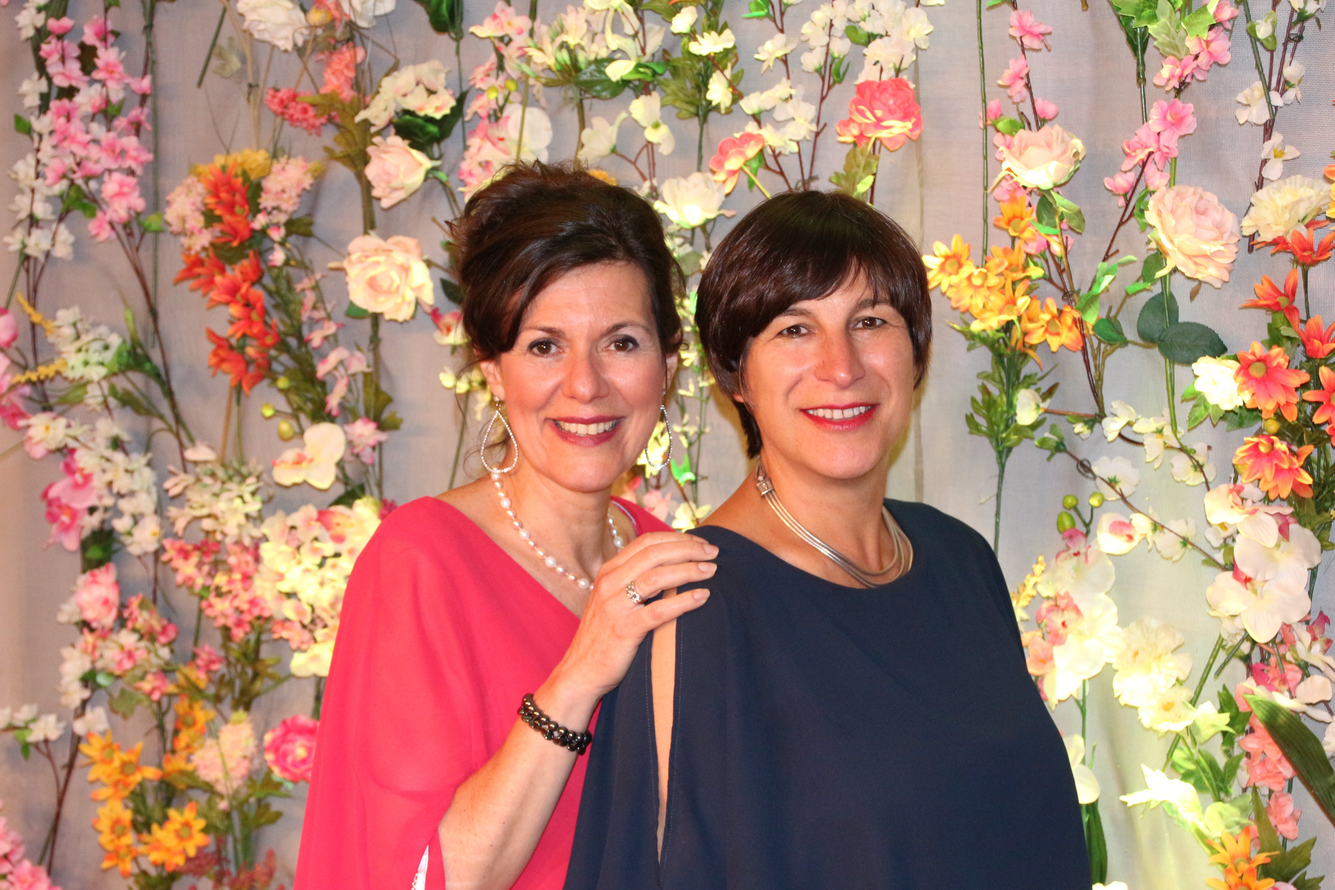
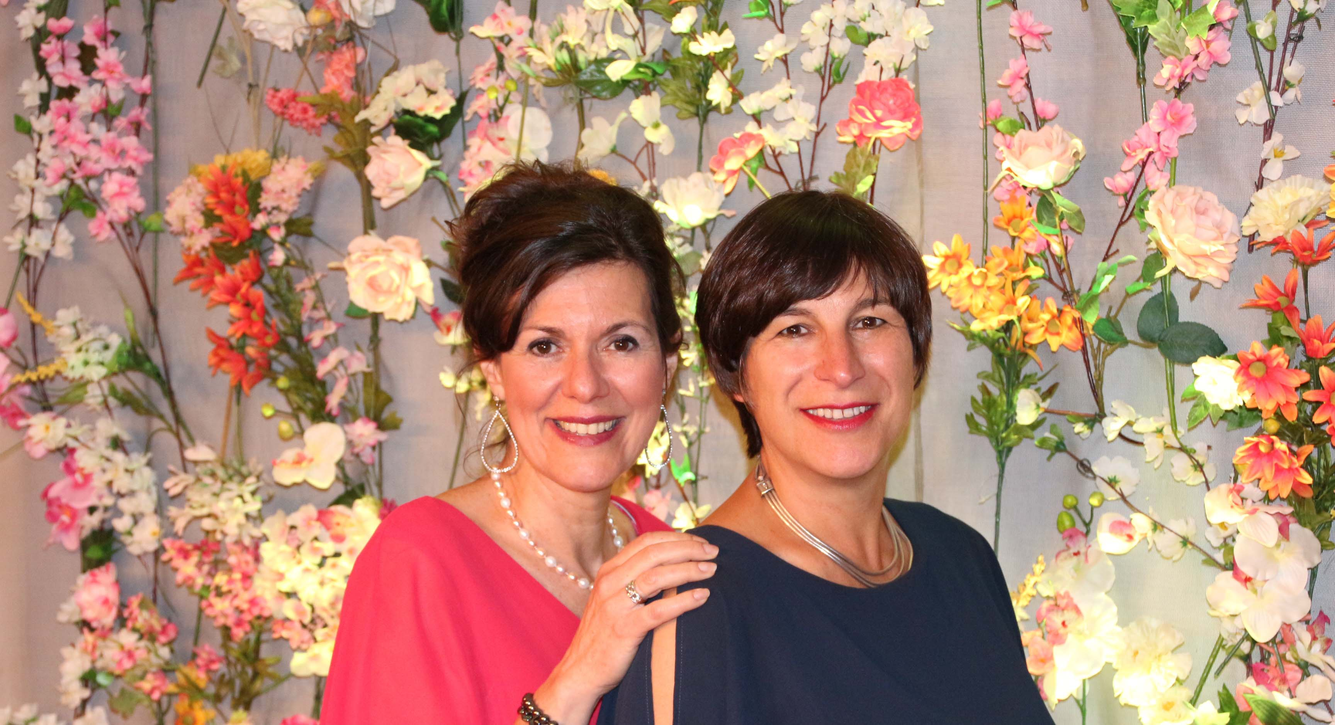
deploy update

diff --git a/src/pages/donna/Donna.jsx b/src/pages/donna/Donna.jsx
@@ -1,0 +1,57 @@
+import React from "react";
+import './Donna.css';
+import HeroBasic from "../../components/hero/HeroBasic";
+import donnaImage from '../../assets/images/pages/donna/donna-verso-grijskopie.jpg';
+import trioImage from '../../assets/images/pages/donna/NAERT-DEWINTER-LEMAITRE--P131.jpg';
+
+const Donna = () => {
+    return (
+        <div className='page'>
+            <HeroBasic page="donna"/>
+            <section className='section-general'>
+                <h2 className="aboutme__section--title section__title">D💋NNA²</h2>
+                <div className="section__title--border"></div>
+                <div className="donna__container">
+                <p className="donna__description">Drie talentvolle dames brengen een origineel, creatief concept met een eigen toets</p>
+                <section className="donna__sec section-general">
+			<h2 className="aboutme__section--title section__title">Wie?</h2>
+			<div className="section__title--border"></div>
+			<div className="donna__wie--persons">
+				<div><h3>D💋rien Naert </h3><p> heeft het talent om op een leuke, stijlvolle en aangepaste manier het publiek toe te spreken. Talrijke presentaties van uiteenlopende evenementen mag ze dan ook reeds op haar naam schrijven.</p></div>
+				<div><h3>Ann De Winter </h3><p> heeft het talent om met haar hartverwarmende stem velen te bekoren en met klasse diverse genres van liedjes te zingen.  Voor veel solistenrollen en verscheidene optredens wordt ze dan ook vaak gevraagd.</p></div>
+				<div><h3>Ann Lemaitre </h3><p> heeft het talent om voor een knappe live begeleiding op piano/keys te zorgen met een persoonlijke twist. Diverse opdrachten mag ze dan ook als professioneel muzikant geregeld vervullen.</p></div>
+				<div className="center">De combinatie van de 3 vormt een mooi geheel! Als je deze charmante 3 boekt voor een optreden, is er gegarandeerd ambiance, zal er genoten worden van hun optreden en gaat iedereen happy naar huis!</div>
+			</div>
+		</section>
+		<section className="donna__sec section-general">
+			<h2 className="section__title">Wat?</h2>
+			<div className="section__title--border"></div>
+			<div className="donna__wat">
+				<p>Ze verwennen je met een mix van mooie live begeleide zangnummers (klassiekers, evergreens, Franse chansons, meezingers, Latin, golden oldies, Nederlandstalige liedjes,... ) afgewisseld met teksten, waarbij vaak een vleugje humor niet ontbreekt.</p>
+				<img src={donnaImage} alt="Donna Verso Beschrijving"/>
+				<p className="donna__wat-prog">Er kan (voorlopig) gekozen worden uit 4 programma's:</p>
+				<ul>
+					<li><strong>Eindelijk weer live!</strong> : Samen de vrijheid beleven na een tijd van corona.</li>
+					<li><strong>Vrouwendingetjes</strong> : Leuke vertellingen en zang over de vrouw in al haar typische aspecten en facetten.</li>
+					<li><strong>Winterklanken</strong> : Sfeervolle liederen, kerst carols en warme wensen passend bij een stemmig eindejaar.</li>
+					<li><strong>Prosit neujahr!</strong> : Een sprankelende wijze om het nieuwe jaar in te duiken</li>
+				</ul>
+			</div>
+		</section>
+		<section className="donna__sec section-general">
+			<h2 className="section__title">Boekingsmogelijkheden</h2>
+			<div className="section__title--border"></div>
+			<div className="donna__boekingsmogelijkheden">
+				<p>1 uur of  2 x  30 min met pauze</p>
+				<p>(andere opties zijn zeker mogelijk, vraag vrijblijvend)</p>
+			</div>
+			<img src={trioImage} alt="Donna Winterklanken"/>
+		</section>
+
+                </div>
+            </section>
+        </div>
+    );
+}
+
+export default Donna;

diff --git a/src/pages/contact/Contact.css b/src/pages/contact/Contact.css
@@ -1,0 +1,99 @@
+
+.contact-wrapper{
+	margin: var(--s2) 0;
+	margin-bottom: var(--s1);
+	display: flex;
+	align-items: flex-end;
+	justify-content: center;
+	flex-wrap: wrap-reverse;
+	gap: var(--s3);
+}
+
+.contact-form{
+	display: grid;
+	grid-template-areas: 
+	"firstname lastname"
+	"email email"
+	"message message"
+	"submit submit";
+	gap: var(--s0);
+}
+
+label{
+	font-weight: bold;
+}
+
+.input{
+	font-family: inherit;
+	font-size: inherit;
+	color: inherit;
+	padding: var(--s-1);
+	display: block;
+	width: 100%;
+	outline: var(--s-99) solid black;
+	border: var(--s-2) solid transparent;
+}
+
+.submit-button{
+	padding: var(--s0);
+	width: 8rem;
+	font-size: var(--s0);
+	text-transform: uppercase;
+	align-self: flex-end;
+	color: var(--color-gold);
+	outline: none;
+	background-color: transparent;
+	border: none;
+	cursor: pointer;
+}
+
+.submit-button:hover{
+	text-decoration: underline;
+	color: #7a5b29;
+}
+
+.label-text{
+	display: flex;
+	justify-content: space-between;
+	align-items: center;
+}
+
+.label-error{
+	color: var(--color-error);
+}
+
+.label-error .error{
+	opacity: 1;
+	pointer-events: initial;
+	visibility: visible;
+
+}
+
+.label-error .input{
+	border: var(--s-2) solid var(--color-error);
+	outline: none;
+}
+
+.error{
+	color: var(--color-error);
+	font-size: 0.8rem;
+	font-family: Arial, Helvetica, sans-serif;
+	font-weight: bold;
+	font-style: italic;
+	opacity: 0;
+	pointer-events: none;
+	visibility: hidden;
+}
+
+.succes-hidden{
+	opacity: 0;
+	pointer-events: none;
+	visibility: hidden;
+}
+
+.form-bottom{
+	display: flex;
+	justify-content: space-between;
+	align-items: center;
+	grid-area: submit;
+}

diff --git a/src/pages/donna/Donna.css b/src/pages/donna/Donna.css
@@ -1,0 +1,65 @@
+.donna__container{
+
+}
+
+.donna__description{
+	font-family: "DancingScript";
+	font-size: 2rem;
+	margin-top: var(--s1);
+    text-align: center;
+}
+
+.donna__sec{
+	padding-top: 4rem;
+}
+.donna__sec img{
+	max-width: 100%;
+	margin: 4rem auto;
+}
+.donna__wie--persons{
+	display: flex;
+	flex-direction: column;
+	gap: var(--s1);
+	margin-top: var(--s1);
+}
+.donna__wie--persons h3{
+	font-weight: bold;
+	font-size: 2rem;
+	display: inline-block;
+}
+.donna__wie--persons p{
+	display: inline;
+}
+.center{
+	text-align: center;
+	align-self: center;
+	max-width: 60%;
+	font-style: italic;
+}
+.donna__wat{
+	margin-top:1.5rem;text-align:center;max-width:80%;
+	display: flex;
+	flex-direction: column;
+	align-items: center;
+	gap: var(--s1);
+}
+.donna__wat img{
+	max-width: 80%;
+}
+.donna__wat-prog{
+	font-weight: bold;
+}
+.donna__wat ul{
+	text-align: left;
+	list-style-type: circle;
+	display: flex;
+	flex-direction: column;
+	gap: var(--s0);
+}
+.donna__boekingsmogelijkheden{
+	margin-top: var(--s1);
+	font-size: 1.5rem;
+	text-align: center;
+	font-weight: bold;
+	max-width: 70%;
+}

diff --git a/src/pages/contact/Contact.jsx b/src/pages/contact/Contact.jsx
@@ -1,0 +1,20 @@
+import React from "react";
+import './Contact.css';
+import contactImage from '../../assets/images/pages/contact/mama-beginfoto-website-bewerkt.jpg';
+
+const Contact = () => {
+    return (
+        <div className='page'>
+            <section className="section-general">
+                    <h2 className="section__title">Contact</h2>
+                    <div className="section__title--border"></div>
+                    <div className="contact-wrapper">
+                        <img src={contactImage} className="contact__media-image" width="320" height="320"  style={{marginTop: "0.6rem"}}/>
+                        <p>U kan mij het best contacteren via mail of telefonisch: <strong><br/>info@anndewinter.be<br/>+32 476 22 09 42</strong></p>
+                    </div>
+            </section>
+        </div>
+    );
+}
+
+export default Contact;

diff --git a/src/App.jsx b/src/App.jsx
@@ -6,6 +6,8 @@ import Home from './pages/home/Home';
 import Bio from './pages/bio/Bio';
 import Media from './pages/media/Media';
 import Annchante from './pages/annchante/Annchante';
+import Donna from './pages/donna/Donna';
+import Contact from './pages/contact/Contact';
 
 function App() {
 
@@ -17,7 +19,10 @@ function App() {
           <Route exact path="/" element={<Home />} />
           <Route exact path="/bio" element={<Bio />} />
           <Route exact path="/media" element={<Media />} />
-          <Route exact path="/annchante" element={<Annchante />}/></Routes>
+          <Route exact path="/annchante" element={<Annchante />}/>
+          <Route exact path='/donna' element={<Donna />}/>
+          <Route exact path='/contact' element={<Contact/>}/>
+        </Routes>
       </main>
       <Footer />
     </Router>

diff --git a/src/components/imageSlider/ImageSlider.jsx b/src/components/imageSlider/ImageSlider.jsx
@@ -21,7 +21,7 @@ const ImageSlider = () => {
             <h2 className="hidden">Afbeeldingen</h2>
             <div className="slide-images">
                 <img src={image1} className={"slide-image " + (activeImage === 0 ? "imageSlider-active" : "")} />
-                <img src={image2} className={"slide-image " + (activeImage === 1 ? "imageSlider-active" : "")} />
+                <img src={image2} className={"slide-image " + (activeImage === 1 ? "imageSlider-active" : "")}  style={{alignSelf: "start"}} />
                 <img src={image3} className={"slide-image " + (activeImage === 2 ? "imageSlider-active" : "")} />
                 <img src={image4} className={"slide-image " + (activeImage === 3 ? "imageSlider-active" : "")} />
             </div>

diff --git a/src/components/concepten/Concepten.jsx b/src/components/concepten/Concepten.jsx
@@ -5,7 +5,7 @@ const Concepten = () => {
     return (
         <section className="concepten__section  section-general">
             <h2 className="aboutme__section--title section__title">Waarvoor mij boeken?</h2>
-            <div class="section__title--border"></div>
+            <div className="section__title--border"></div>
             <div className="concepten__section--wrapper">
                 <div className='concept__container concept-concert elevation-strong'>
                     <div className='concept__container--cover'>

diff --git a/src/components/hero/Hero.jsx b/src/components/hero/Hero.jsx
@@ -3,7 +3,7 @@ import './Hero.css';
 
 const Hero = ({children}) => {
     return (
-        <div className="hero__section layered-grid">
+        <div className="hero__section layered-grid elevation-strong">
             <div className='hero__image' />
             <div className='hero__content'>
                 {children}

diff --git a/src/components/header/Header.jsx b/src/components/header/Header.jsx
@@ -49,7 +49,7 @@ const Header = ({ title }) => {
             </li>
             <li className="menu__item">
               <Link className="item__link" to="/donna">
-                Donna²
+                D💋nna²
               </Link>
             </li>
             <li className="menu__item">

diff --git a/src/pages/media/Media.css b/src/pages/media/Media.css
@@ -30,6 +30,7 @@
 
 .foto__item {
     height: auto;
+    min-height: 5rem;
     break-inside: avoid-column;
     border-radius: 10px;
     overflow: hidden;
@@ -37,6 +38,7 @@
     position: relative;
     color: white;
     cursor: pointer;
+    background-color: lightgrey;
 }
 
 .foto__item img {

diff --git a/src/components/hero/Hero.css b/src/components/hero/Hero.css
@@ -75,3 +75,7 @@
 .hero__section-small--img.annchante{
     background-image: url('../../assets/images/pages/annchante/annchante.jpg');
 }
+.hero__section-small--img.donna{
+    background-position: 60% center;
+    background-image: url('../../assets/images/pages/donna/donna-hero.jpg');
+}
